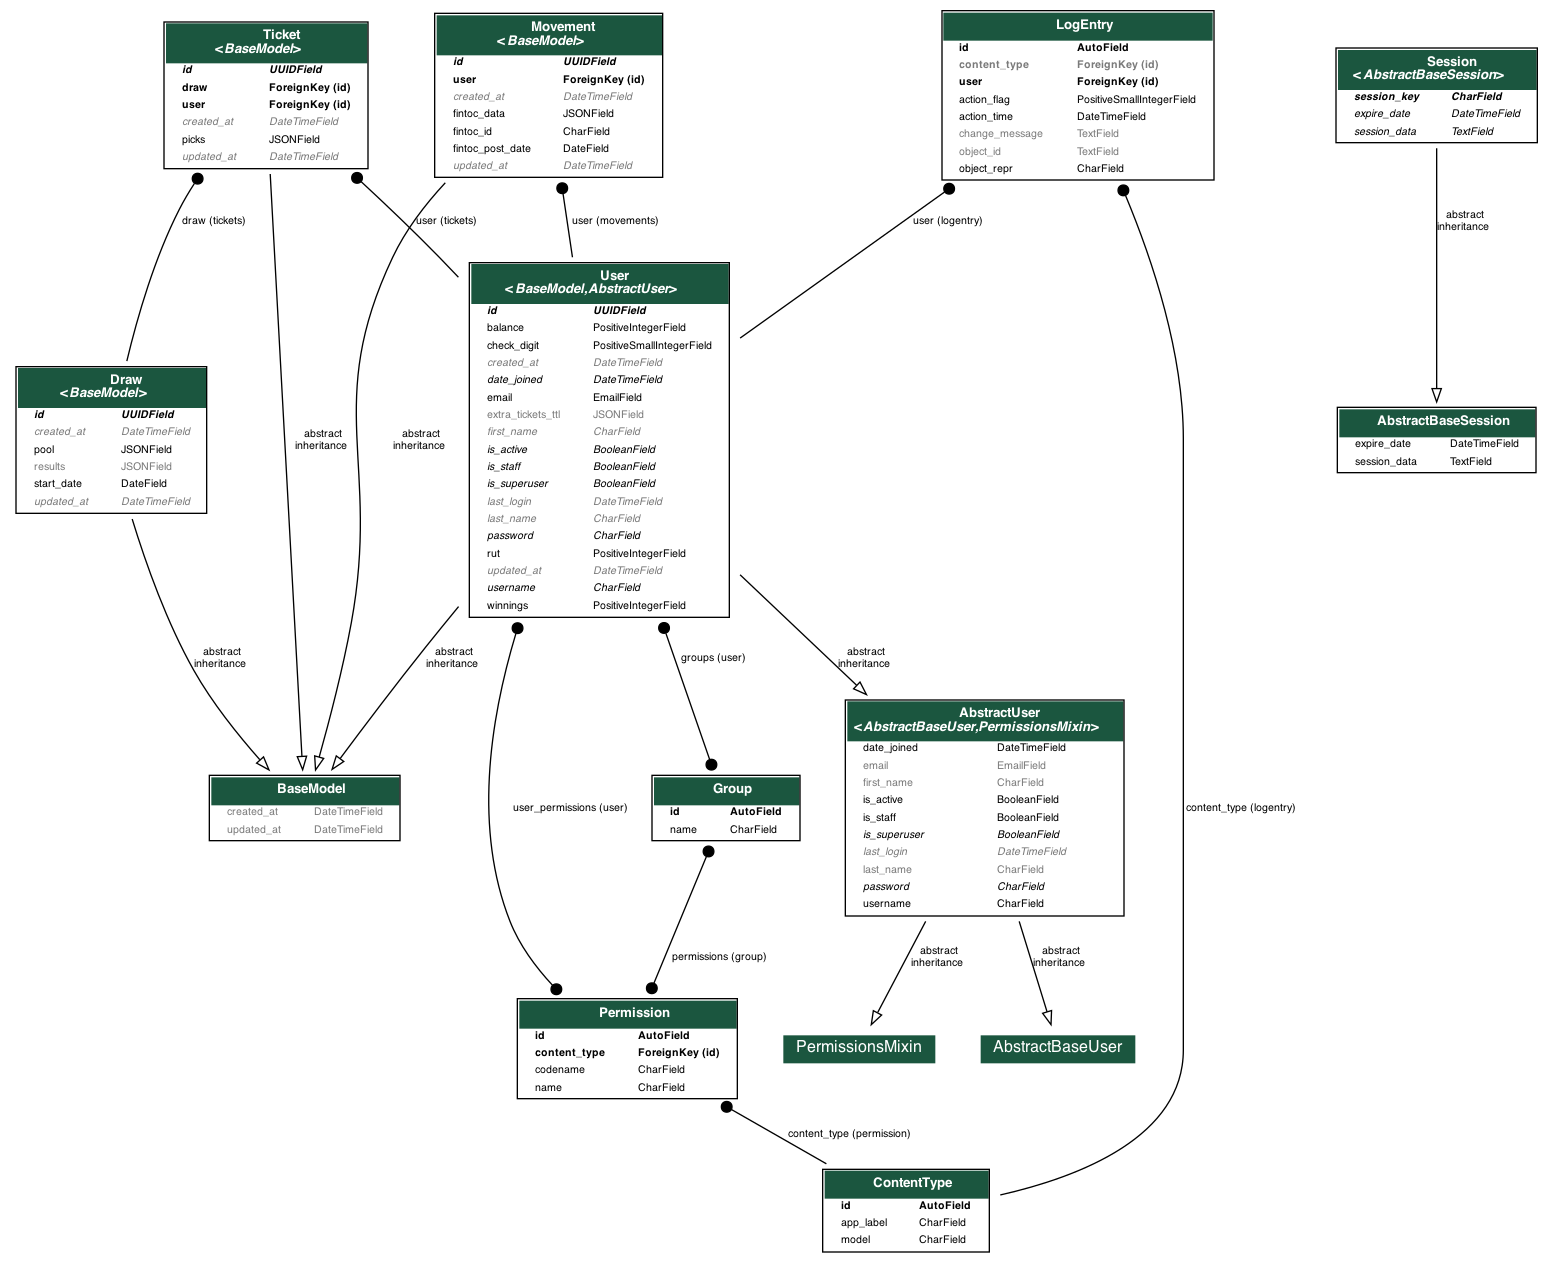
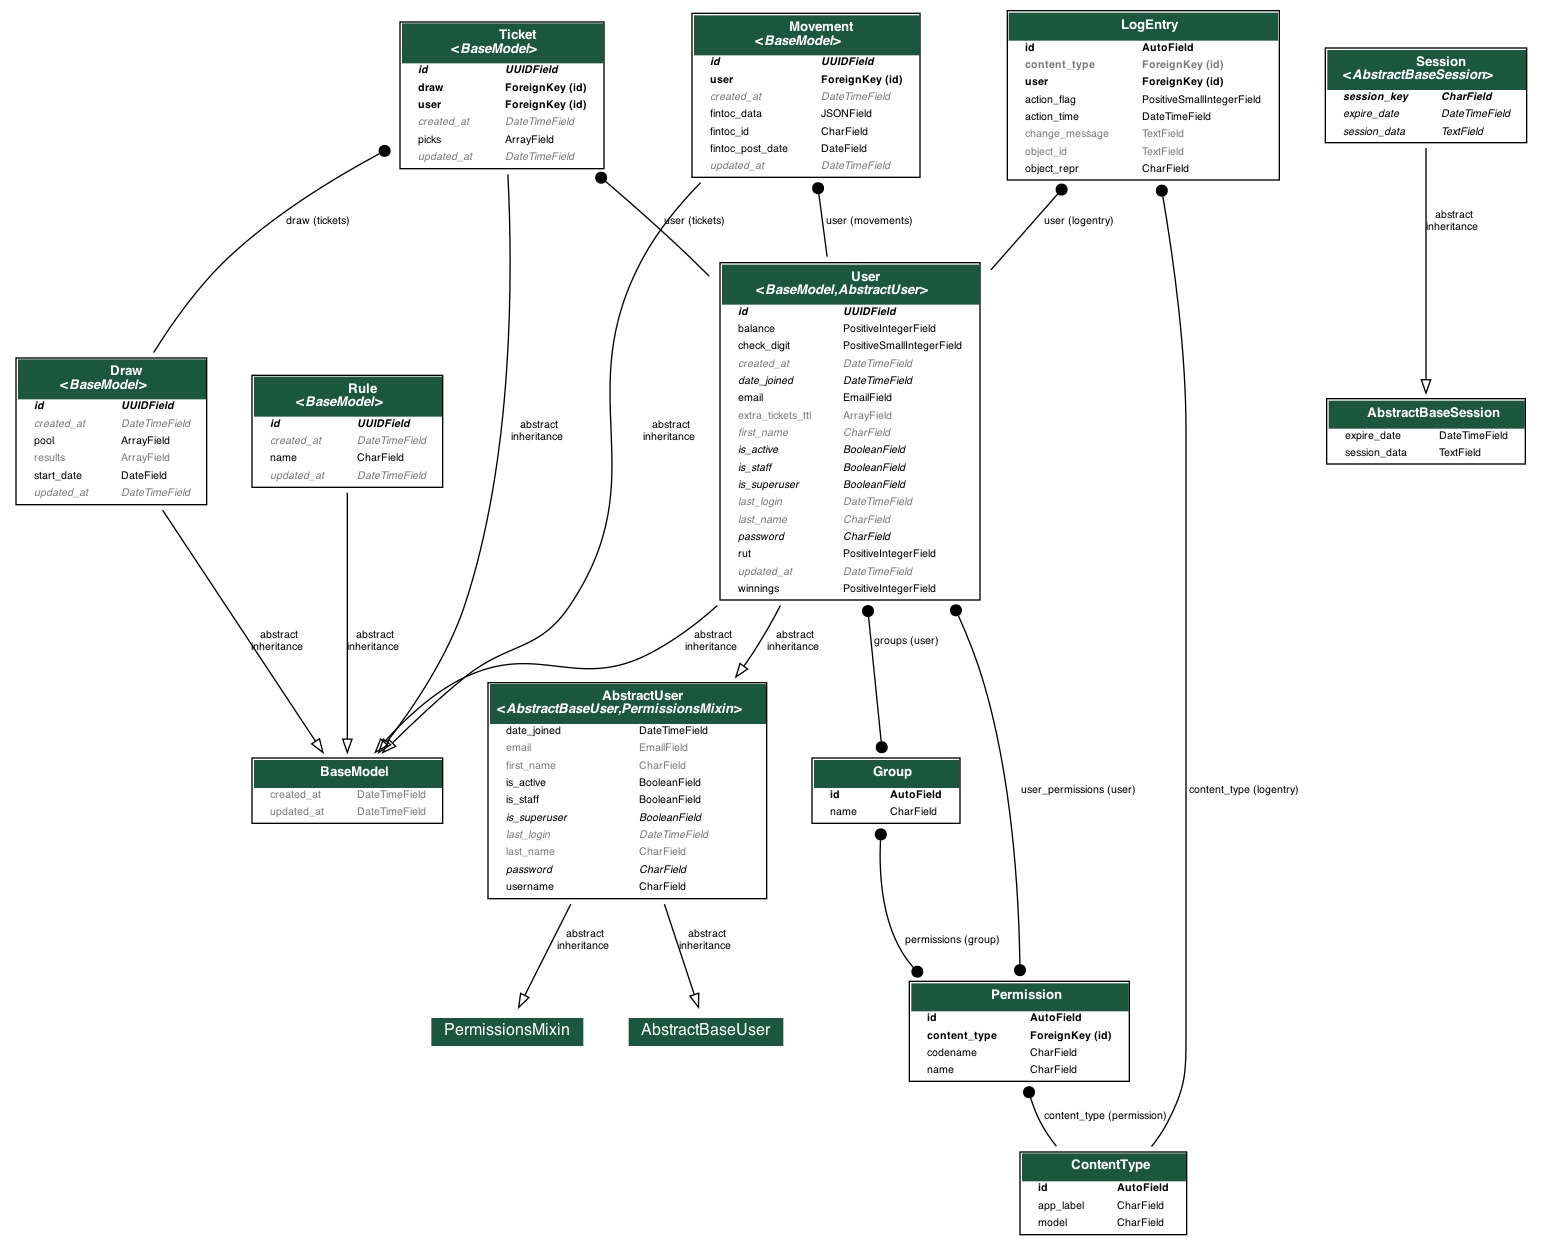
Add a scheduler app integrated with AWS EventBridge (#23)
* feat: install boto3

* feat: add scheduler app (with CloudWatch interface and Rule model)

* fix: replace 503 errors with 500 errors

* style: format code

* Add a custom rule form in admin page

* feat: add schedule expression validators

* feat: save rule in aws

* feat: delete rule in aws

* feat: fetch rules from aws

* fix: qs deletion of rules

* chore: comment code for clarity

* style: remove unused code

* docs: update E/R diagram

diff --git a/conyappa/scheduler/admin.py b/conyappa/scheduler/admin.py
@@ -1,0 +1,102 @@
+from django.conf import settings
+from django.contrib import admin
+from django.core.exceptions import ValidationError
+from django.forms import CharField, ChoiceField, ModelForm, TextInput
+
+import cron_descriptor
+
+from .models import Rule
+from .utils import CRON, RATE, SCHEDULE_DESCRIPTORS, parse_schedule
+
+
+class RuleForm(ModelForm):
+    class Meta:
+        model = Rule
+
+        fields = [
+            "name",
+            "function",
+            "schedule_expression",
+        ]
+
+    FUNCTION_CHOICES = [
+        (settings.AWS_CREATE_DRAW_LAMBDA, "Create draw"),
+    ]
+
+    function = ChoiceField(choices=FUNCTION_CHOICES, required=True)
+
+    SCHEDULE_EXPRESSION_EXAMPLES = [
+        "cron(0/5 * * * ? *)",
+        "cron(0 20 * * ? *)",
+        "rate(5 minutes)",
+        "cron(0 * 2 3 * *)",
+        "cron(0 */10 * * * *)",
+    ]
+
+    schedule_expression = CharField(
+        required=True,
+        widget=TextInput(attrs={"placeholder": SCHEDULE_EXPRESSION_EXAMPLES[0]}),
+        help_text=(
+            "AWS supports cron expressions and rate expressions."
+            "\nAll scheduled events use UTC time zone and the minimum precision for schedules is 1 minute."
+            f"\nExamples: {', '.join(SCHEDULE_EXPRESSION_EXAMPLES[1:])}."
+        ),
+    )
+
+    @staticmethod
+    def validate_cron(expression):
+        try:
+            SCHEDULE_DESCRIPTORS[CRON](expression)
+        except cron_descriptor.FormatException as e:
+            raise ValidationError(f"Invalid cron expression: {e}")
+
+    @staticmethod
+    def validate_rate(expression):
+        try:
+            value, unit = expression.split(" ")
+        except ValueError:
+            raise ValidationError("Invalid rate expression: ensure the input contains exactly one value and one unit.")
+
+        if not value.isdigit():
+            raise ValidationError("Invalid rate expression: ensure the inputted value is a whole number.")
+
+    def clean_schedule_expression(self):
+        schedule_expression = self.cleaned_data["schedule_expression"]
+        type_, expression = parse_schedule(schedule_expression)
+
+        validators = {CRON: self.validate_cron, RATE: self.validate_rate}
+        validators[type_](expression)
+
+        return type_, expression
+
+
+@admin.register(Rule)
+class RuleAdmin(admin.ModelAdmin):
+    search_fields = [
+        "name",
+    ]
+
+    list_display = [
+        "name",
+        "schedule",
+        "updated_at",
+    ]
+
+    list_filter = [
+        "updated_at",
+    ]
+
+    form = RuleForm
+
+    readonly_fields = [
+        "schedule",
+    ]
+
+    def save_model(self, request, obj, form, change):
+        function = form.cleaned_data["function"]
+        type_, expression = form.cleaned_data["schedule_expression"]
+
+        obj.function = function
+        obj.schedule_expression = f"{type_}({expression})"
+
+        super().save_model(request, obj, form, change)

diff --git a/conyappa/scheduler/models.py b/conyappa/scheduler/models.py
@@ -1,0 +1,70 @@
+from django.db import models, transaction
+
+from main.base import BaseModel
+
+from .eventbridge import Interface as EventBridge
+from .utils import SCHEDULE_DESCRIPTORS, parse_schedule
+
+
+class RuleQuerySet(models.QuerySet):
+    def delete(self, *args, **kwargs):
+        # Don’t use QuerySet deletion here;
+        # each rule deletion must be
+        # atomic and independent.
+        for obj in self:
+            obj.delete()
+
+
+class RuleManager(models.Manager):
+    def get_queryset(self):
+        return RuleQuerySet(self.model, using=self._db)
+
+
+class Rule(BaseModel):
+    name = models.CharField(unique=True, max_length=50, verbose_name="Name")
+
+    objects = RuleManager()
+
+    def init_remote(self, **kwargs):
+        EventBridge().fetch(self)
+
+    def __init__(self, *args, **kwargs):
+        super().__init__(*args, **kwargs)
+
+        if self.name:
+            self.init_remote()
+
+    def save_remote(self):
+        EventBridge().put(self)
+
+    @transaction.atomic
+    def save(self, *args, **kwargs):
+        super().save(*args, **kwargs)
+        self.save_remote()
+
+    def delete_remote(self):
+        EventBridge().delete(self)
+
+    @transaction.atomic
+    def delete(self, *args, **kwargs):
+        # Don’t lose the ID
+        # because it’s used by eventbridge_name in delete_remote.
+        pk = self.pk
+        super().delete(*args, **kwargs)
+        self.pk = pk
+        self.delete_remote()
+
+    @property
+    def eventbridge_name(self):
+        # Each rule name (and target ID) must be unique.
+        return f"{self.name}_{self.pk}"
+
+    @property
+    def schedule(self):
+        type_, expression = parse_schedule(self.schedule_expression)
+
+        description = SCHEDULE_DESCRIPTORS[type_](expression)
+        return f"{self.schedule_expression} => {description}"
+
+    def __str__(self):
+        return self.name

diff --git a/conyappa/main/settings.py b/conyappa/main/settings.py
@@ -14,19 +14,23 @@ BASE_DIR = os.path.dirname(os.path.dirname(os.path.abspath(__file__)))
 # APPLICATION DEFINITION #
 ##########################
 
-INSTALLED_APPS = [
-    # Third party apps.
+THIRD_PARTY = [
     "rest_framework",
     "corsheaders",
     "whitenoise.runserver_nostatic",
     "django_extensions",
     "admin_numeric_filter",
-    # First party apps.
+]
+
+FIRST_PARTY = [
     "accounts.apps.AccountsConfig",
     "banking.apps.BankingConfig",
     "docs.apps.DocsConfig",
     "lottery.apps.LotteryConfig",
-    # Built-in apps.
+    "scheduler.apps.SchedulerConfig",
+]
+
+BUILT_IN = [
     "django.contrib.admin",
     "django.contrib.auth",
     "django.contrib.contenttypes",
@@ -35,6 +39,8 @@ INSTALLED_APPS = [
     "django.contrib.staticfiles",
     "django.contrib.humanize",
 ]
+
+INSTALLED_APPS = THIRD_PARTY + FIRST_PARTY + BUILT_IN
 
 
 ##################
@@ -207,6 +213,19 @@ FINTOC_IS_ENABLED = bool(int(os.environ.get("FINTOC_IS_ENABLED", "0")))
 FINTOC_SECRET_KEY = os.environ.get("FINTOC_SECRET_KEY")
 FINTOC_LINK_TOKEN = os.environ.get("FINTOC_LINK_TOKEN")
 FINTOC_ACCOUNT_ID = os.environ.get("FINTOC_ACCOUNT_ID")
+
+AWS_ACCESS_KEY_ID = os.environ.get("AWS_ACCESS_KEY_ID")
+AWS_SECRET_ACCESS_KEY = os.environ.get("AWS_SECRET_ACCESS_KEY")
+
+AWS_PARTITION = "aws"
+AWS_REGION_NAME = os.environ.get("AWS_REGION_NAME")
+AWS_ACCOUNT_ID = os.environ.get("AWS_ACCOUNT_ID")
+
+AWS_CREATE_DRAW_LAMBDA = os.environ.get("AWS_CREATE_DRAW_LAMBDA")
+
+AWS_ARN = lambda service_name, resource_type, resource_id: ":".join(
+    ["arn", AWS_PARTITION, service_name, AWS_REGION_NAME, AWS_ACCOUNT_ID, resource_type, resource_id]
+)
 
 
 ##########

diff --git a/conyappa/scheduler/eventbridge.py b/conyappa/scheduler/eventbridge.py
@@ -1,0 +1,30 @@
+from django.conf import settings
+
+import boto3
+from utils.metaclasses import Singleton
+
+
+class Interface(metaclass=Singleton):
+    def __init__(self):
+        self.client = boto3.client(
+            service_name="events",
+            aws_access_key_id=settings.AWS_ACCESS_KEY_ID,
+            aws_secret_access_key=settings.AWS_SECRET_ACCESS_KEY,
+            region_name=settings.AWS_REGION_NAME,
+        )
+
+    def fetch(self, rule):
+        data = self.client.list_rules(NamePrefix=rule.eventbridge_name, Limit=1)
+        rule_data = data["Rules"][0]
+
+        rule.schedule_expression = rule_data["ScheduleExpression"]
+
+    def put(self, rule):
+        target_arn = settings.AWS_ARN(service_name="lambda", resource_type="function", resource_id=rule.function)
+
+        self.client.put_rule(Name=rule.eventbridge_name, ScheduleExpression=rule.schedule_expression)
+        self.client.put_targets(Rule=rule.eventbridge_name, Targets=[{"Id": rule.eventbridge_name, "Arn": target_arn}])
+
+    def delete(self, rule):
+        self.client.remove_targets(Rule=rule.eventbridge_name, Ids=[rule.eventbridge_name])
+        self.client.delete_rule(Name=rule.eventbridge_name)

diff --git a/conyappa/main/views.py b/conyappa/main/views.py
@@ -4,7 +4,7 @@ from django.db.utils import OperationalError
 
 from rest_framework.decorators import api_view
 from rest_framework.response import Response
-from rest_framework.status import HTTP_200_OK, HTTP_503_SERVICE_UNAVAILABLE
+from rest_framework.status import HTTP_200_OK, HTTP_500_INTERNAL_SERVER_ERROR
 
 admin_site.site_header = "Con Yappa"
 admin_site.site_title = "Con Yappa"
@@ -16,11 +16,11 @@ def health_check(request):
     try:
         db_conn.cursor()
     except OperationalError:
-        return Response(data={"detail": "Can't connect to database."}, status=HTTP_503_SERVICE_UNAVAILABLE)
+        return Response(data={"detail": "Can't connect to database."}, status=HTTP_500_INTERNAL_SERVER_ERROR)
     except Exception:
         return Response(
             data={"detail": "Unknown database problem."},
-            status=HTTP_503_SERVICE_UNAVAILABLE,
+            status=HTTP_500_INTERNAL_SERVER_ERROR,
         )
     return Response(status=HTTP_200_OK)
 

diff --git a/conyappa/scheduler/utils.py b/conyappa/scheduler/utils.py
@@ -1,0 +1,31 @@
+from django.core.exceptions import ValidationError
+
+import cron_descriptor
+
+CRON = "cron"
+RATE = "rate"
+
+
+def parse_schedule(schedule_expression):
+    for type_ in [CRON, RATE]:
+        if schedule_expression.startswith(type_):
+            expression = schedule_expression.lstrip(f"{type_}(").rstrip(")")
+            return type_, expression
+
+    raise ValidationError("Enter cron or rate expressions only.")
+
+
+def get_cron_description(expression):
+    normal_form = "0 " + expression.replace("?", "*")
+
+    descriptor_options = cron_descriptor.Options()
+    descriptor_options.day_of_week_start_index_zero = False
+
+    return cron_descriptor.get_description(expression=normal_form, options=descriptor_options)
+
+
+def get_rate_description(expression):
+    return f"Every {expression}"
+
+
+SCHEDULE_DESCRIPTORS = {CRON: get_cron_description, RATE: get_rate_description}

diff --git a/conyappa/scheduler/migrations/0001_initial.py b/conyappa/scheduler/migrations/0001_initial.py
@@ -1,0 +1,28 @@
+# Generated by Django 3.1.7 on 2021-03-29 11:27
+
+import uuid
+
+from django.db import migrations, models
+
+
+class Migration(migrations.Migration):
+
+    initial = True
+
+    dependencies = [
+    ]
+
+    operations = [
+        migrations.CreateModel(
+            name='Rule',
+            fields=[
+                ('id', models.UUIDField(default=uuid.uuid4, editable=False, primary_key=True, serialize=False, unique=True, verbose_name='ID')),
+                ('created_at', models.DateTimeField(auto_now_add=True, verbose_name='created at')),
+                ('updated_at', models.DateTimeField(auto_now=True, verbose_name='last updated at')),
+                ('name', models.CharField(max_length=50, unique=True, verbose_name='Name')),
+            ],
+            options={
+                'abstract': False,
+            },
+        ),
+    ]

diff --git a/conyappa/main/local_settings.example.py b/conyappa/main/local_settings.example.py
@@ -71,3 +71,15 @@ FINTOC_IS_ENABLED = False
 FINTOC_SECRET_KEY = "sk_example_WXUFqk8hMPQ4UA7HafJtZDsPZvabS5af"
 FINTOC_LINK_TOKEN = "bsdnsLxwLg4hvIiu_token_MqtIXPNibVqK3XtPBOvmUI1m"
 FINTOC_ACCOUNT_ID = "AzrEVH1tFG4z4kTT"
+
+AWS_ACCESS_KEY_ID = "AKIA4AWHNDASTGTJVSZA"
+AWS_SECRET_ACCESS_KEY = "KnZB+StfliRAvr7TX283URDgprv0gZ+IHx8x6JW2"
+
+AWS_REGION_NAME = "example-region"
+AWS_ACCOUNT_ID = "0123456789"
+
+AWS_CREATE_DRAW_LAMBDA = "conyappa-stage-functionName"
+
+AWS_ARN = lambda service_name, resource_type, resource_id: ":".join(
+    ["arn", AWS_PARTITION, service_name, AWS_REGION_NAME, AWS_ACCOUNT_ID, resource_type, resource_id]  # noqa: F405
+)

diff --git a/conyappa/scheduler/apps.py b/conyappa/scheduler/apps.py
@@ -1,0 +1,5 @@
+from django.apps import AppConfig
+
+
+class SchedulerConfig(AppConfig):
+    name = "scheduler"
